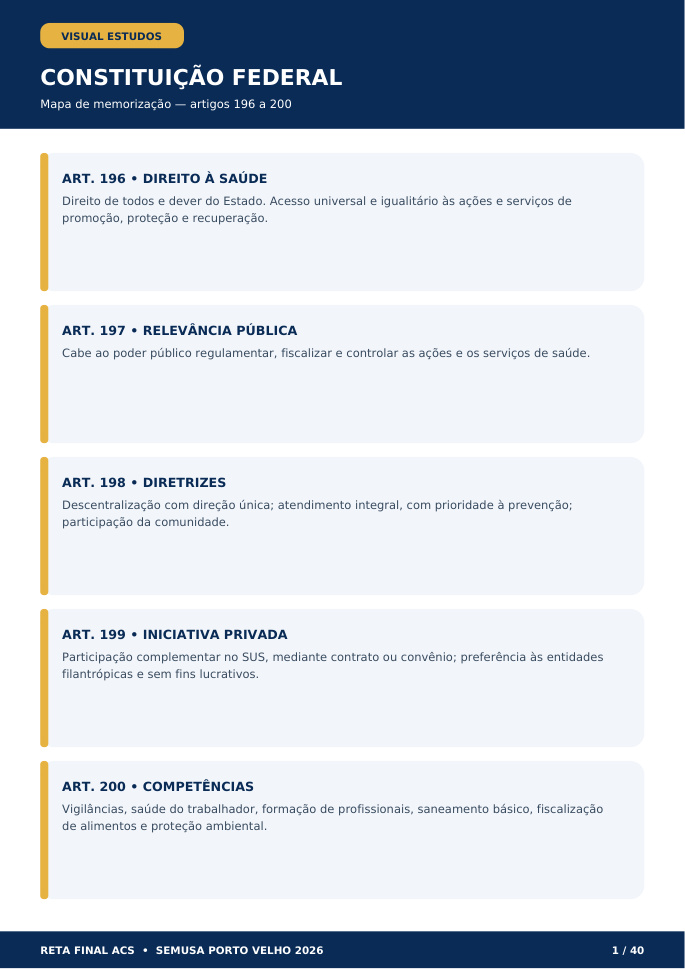
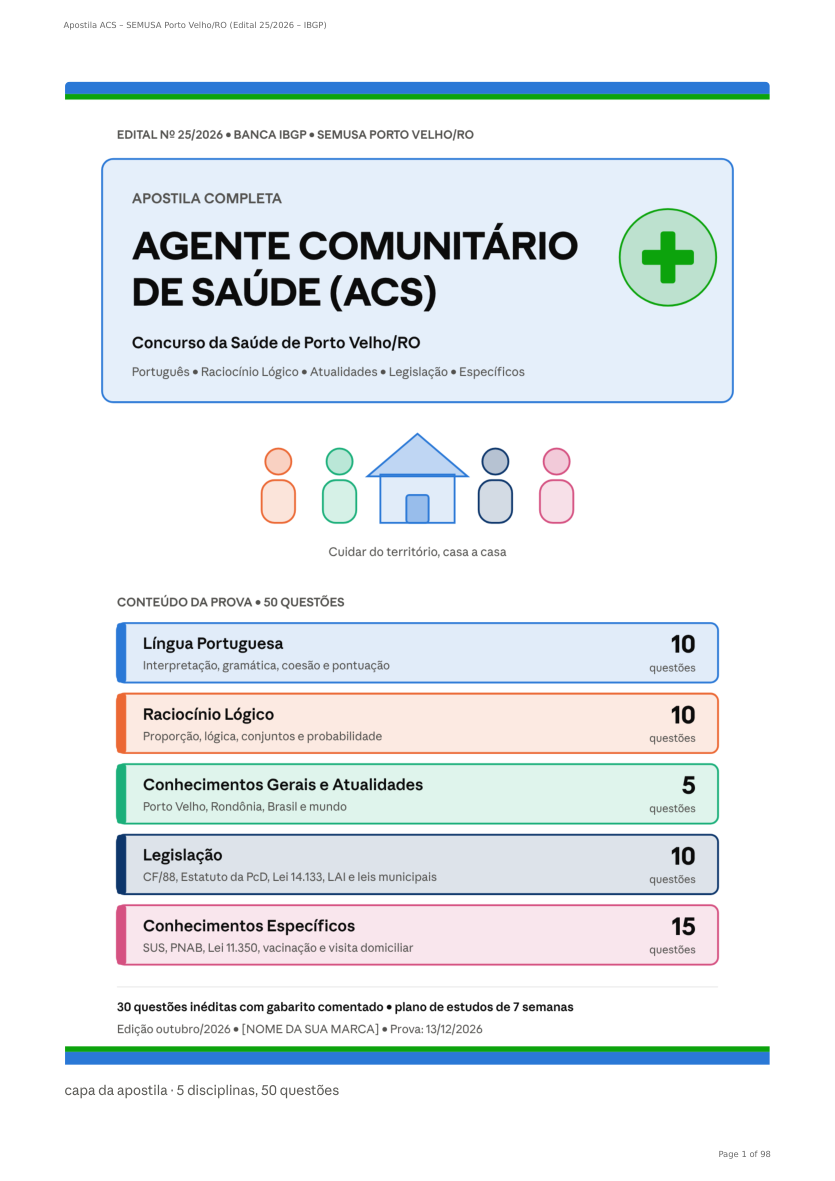
Add files via upload
Atualização das 7 prévias dos produtos.

diff --git a/previa.html b/previa.html
@@ -1,15 +1,15 @@
 <!doctype html><html lang="pt-BR"><head><meta charset="utf-8"><meta name="viewport" content="width=device-width,initial-scale=1"><meta name="theme-color" content="#0b2343"><title>Prévia interativa | Visual Estudos</title><style>
 :root{--navy:#0b2343;--gold:#e8bd61;--ink:#1a2a40}*{box-sizing:border-box}body{margin:0;font:16px/1.55 system-ui,Arial;background:#f5f5f1;color:var(--ink)}a{text-decoration:none}header{background:var(--navy);color:#fff;padding:16px max(20px,calc((100vw - 1100px)/2))}header a{color:#fff;font-weight:800;letter-spacing:.07em}header span{color:var(--gold)}main{max-width:1100px;margin:0 auto;padding:24px 18px 70px}.back{color:#254b78;font-weight:700}.heading{margin:22px 0 25px}.eyebrow{color:#946c1c;text-transform:uppercase;letter-spacing:.15em;font-weight:800;font-size:12px}h1{font-size:clamp(28px,4vw,45px);line-height:1.15;margin:8px 0}h2{font-size:22px;margin:0 0 10px}.layout{display:grid;grid-template-columns:minmax(0,1.2fr) minmax(300px,.8fr);gap:22px}.panel{background:white;border:1px solid #e5e7eb;border-radius:18px;padding:22px;box-shadow:0 8px 28px #0b234309}.viewer{background:#e9edf1;border-radius:12px;min-height:390px;display:grid;place-items:center;padding:14px}.viewer img{display:block;max-width:100%;max-height:640px;object-fit:contain;box-shadow:0 5px 25px #0002}.viewer .empty{text-align:center;max-width:360px;padding:50px 12px}.controls{display:flex;align-items:center;justify-content:space-between;gap:12px;margin-top:15px}.btn{border:0;border-radius:10px;padding:12px 18px;background:var(--navy);color:white;font-weight:800;cursor:pointer;display:inline-block;text-align:center}.btn:disabled{opacity:.35;cursor:not-allowed}.buy{background:#d6a641;color:#15243b;width:100%;margin:15px 0 8px}.muted{color:#637080;font-size:14px}.dots{display:flex;gap:7px}.dot{width:9px;height:9px;border-radius:50%;background:#c6cbd2}.dot.active{background:#a67920}.option{display:block;width:100%;padding:12px;margin:8px 0;text-align:left;background:#f7f9fc;border:1px solid #d8dfe7;border-radius:9px;cursor:pointer;font:inherit}.option.selected{border:2px solid #1d507c;background:#e9f2fa}.feedback{font-weight:700;margin-top:12px}.fine{font-size:12px;color:#66727e}ul{padding-left:20px}@media(max-width:790px){.layout{grid-template-columns:1fr}.panel{padding:16px}.viewer{min-height:250px}}
 </style></head><body><header><a href="index.html">VISUAL <span>ESTUDOS</span></a></header><main><a class="back" href="index.html#materiais">← Voltar aos materiais</a><div class="heading"><div class="eyebrow">Conheça antes de comprar</div><h1 id="title">Prévia do produto</h1><p class="muted">Navegue por páginas demonstrativas e experimente uma questão de revisão.</p></div><div class="layout"><section class="panel"><h2>Por dentro do material</h2><div class="viewer" id="viewer"></div><div class="controls"><button class="btn" id="prev">← Anterior</button><div id="counter" class="muted"></div><button class="btn" id="next">Próxima →</button></div><p class="fine" id="sample-note"></p></section><aside><section class="panel"><h2>Experimente a revisão</h2><p id="question"></p><div id="options"></div><div id="feedback" class="feedback" aria-live="polite"></div><button id="reset" class="btn" style="margin-top:12px">Tentar novamente</button><p class="fine">Questão demonstrativa, não retirada de prova oficial da IBGP.</p></section><section class="panel" style="margin-top:20px"><h2>Gostou do material?</h2><p>Confira as condições, o valor e a descrição completa na Hotmart antes de finalizar.</p><a class="btn buy" id="checkout" target="_blank" rel="noopener noreferrer sponsored">Ver preço e comprar ↗</a><p class="fine">Compra e entrega digital pela Hotmart. Material independente; consulte o edital e as fontes oficiais.</p></section></aside></div></main><script>
-const products={"apostila-acs": {"title": "Apostila ACS", "url": "https://pay.hotmart.com/A108177654K", "images": ["amostras/apostila-acs-1.png", "amostras/apostila-acs-2.png", "amostras/apostila-acs-3.png"], "category": "acs"}, "mapas-acs": {"title": "Mapas Mentais ACS — Conhecimentos Específicos", "url": "https://pay.hotmart.com/S108605680P", "images": ["amostras/mapas-acs-1.png", "amostras/mapas-acs-2.png", "amostras/mapas-acs-3.png"], "category": "acs"}, "mapas-ace": {"title": "Mapas Mentais ACE — Revisão Estratégica IBGP", "url": "https://pay.hotmart.com/I108605538J", "images": ["amostras/mapas-ace-1.png", "amostras/mapas-ace-2.png", "amostras/mapas-ace-3.png"], "category": "ace"}, "legislacao": {"title": "Legislação de Porto Velho — Revisão Estratégica IBGP", "url": "https://pay.hotmart.com/H108605457F", "images": ["amostras/legislacao-1.png", "amostras/legislacao-2.png", "amostras/legislacao-3.png"], "category": "sus"}, "fisio": {"title": "Fisio Para Não Esquecer", "url": "https://pay.hotmart.com/O108196956E", "images": [], "category": "fisioterapia"}, "flashcards": {"title": "Flash Card Fisio", "url": "https://pay.hotmart.com/W108133411G", "images": [], "category": "fisioterapia"}, "sus": {"title": "SUS na Mente", "url": "https://pay.hotmart.com/Q108132771D", "images": [], "category": "sus"}};
+const products={"apostila-acs": {"title": "Apostila ACS", "url": "https://pay.hotmart.com/A108177654K", "images": ["amostras/apostila-acs-1.png", "amostras/apostila-acs-2.png", "amostras/apostila-acs-3.png"], "category": "acs"}, "mapas-acs": {"title": "Mapas Mentais ACS — Conhecimentos Específicos", "url": "https://pay.hotmart.com/S108605680P", "images": ["amostras/mapas-acs-1.png", "amostras/mapas-acs-2.png", "amostras/mapas-acs-3.png"], "category": "acs"}, "mapas-ace": {"title": "Mapas Mentais ACE — Revisão Estratégica IBGP", "url": "https://pay.hotmart.com/I108605538J", "images": ["amostras/mapas-ace-1.png", "amostras/mapas-ace-2.png", "amostras/mapas-ace-3.png"], "category": "ace"}, "legislacao": {"title": "Legislação de Porto Velho — Revisão Estratégica IBGP", "url": "https://pay.hotmart.com/H108605457F", "images": ["amostras/legislacao-1.png", "amostras/legislacao-2.png", "amostras/legislacao-3.png"], "category": "sus"}, "fisio": {"title": "Fisio Para Não Esquecer", "url": "https://pay.hotmart.com/O108196956E", "images": ["amostras/fisio-1.png", "amostras/fisio-2.png", "amostras/fisio-3.png"], "category": "fisioterapia"}, "flashcards": {"title": "Flash Card Fisio", "url": "https://pay.hotmart.com/W108133411G", "images": ["amostras/flashcards-1.png", "amostras/flashcards-2.png", "amostras/flashcards-3.png"], "category": "fisioterapia"}, "sus": {"title": "SUS na Mente", "url": "https://pay.hotmart.com/Q108132771D", "images": ["amostras/sus-1.png", "amostras/sus-2.png", "amostras/sus-3.png"], "category": "sus"}};
 const quiz=[
  {q:"Segundo a Constituição Federal de 1988, a saúde é:",opts:["Um benefício exclusivo de quem contribui para a Previdência.","Um direito de todos e dever do Estado.","Uma responsabilidade apenas dos municípios.","Um serviço restrito à assistência hospitalar."],correct:1,why:"O artigo 196 da Constituição estabelece que a saúde é direito de todos e dever do Estado."},
  {q:"O princípio da integralidade no SUS significa:",opts:["Priorizar somente ações curativas.","Oferecer apenas atendimento especializado.","Articular ações de promoção, prevenção, tratamento e reabilitação conforme as necessidades.","Garantir acesso somente mediante encaminhamento médico."],correct:2,why:"Integralidade abrange diferentes ações de cuidado de forma articulada."}
 ];
 const key=new URLSearchParams(location.search).get("produto");const p=products[key];if(!p){location.replace("index.html#materiais")}else{
- document.title=p.title+" | Prévia Visual Estudos";document.getElementById("title").textContent=p.title;document.getElementById("checkout").href=p.url;
+ document.title=p.title+" | Prévia Visual Estudos";if(key==="flashcards"||key==="fisio"){document.documentElement.style.setProperty("--navy","#46235c");document.documentElement.style.setProperty("--gold","#c79adb");document.body.style.background="#f8f3fb";}document.getElementById("title").textContent=p.title;document.getElementById("checkout").href=p.url;
  let index=0;const viewer=document.getElementById("viewer"),counter=document.getElementById("counter"),prev=document.getElementById("prev"),next=document.getElementById("next");
- function draw(){if(p.images.length){viewer.innerHTML="";const img=document.createElement("img");img.src=p.images[index];img.alt="Página demonstrativa "+(index+1)+" do material";viewer.append(img);counter.textContent=(index+1)+" de "+p.images.length;document.getElementById("sample-note").textContent="Amostra de páginas selecionadas do PDF; não representa o material completo."}else{viewer.innerHTML='<div class="empty"><h2>Prévia descritiva</h2><p>Este produto está no catálogo, mas ainda não recebemos páginas autorizadas para exibir como amostra.</p><p>Você pode experimentar a questão ao lado e conferir a descrição completa na Hotmart.</p></div>';counter.textContent="Sem imagens de amostra";document.getElementById("sample-note").textContent="Não exibimos páginas inventadas ou atribuídas indevidamente ao produto."}prev.disabled=index===0||!p.images.length;next.disabled=index>=p.images.length-1||!p.images.length}
+ function draw(){if(p.images.length){viewer.innerHTML="";const img=document.createElement("img");img.src=p.images[index];img.alt="Página demonstrativa "+(index+1)+" do material";viewer.append(img);counter.textContent=(index+1)+" de "+p.images.length;document.getElementById("sample-note").textContent="Páginas reais do material, sem barras de navegador ou controles de PDF. Amostra parcial."}else{viewer.innerHTML='<div class="empty"><h2>Prévia descritiva</h2><p>Este produto está no catálogo, mas ainda não recebemos páginas autorizadas para exibir como amostra.</p><p>Você pode experimentar a questão ao lado e conferir a descrição completa na Hotmart.</p></div>';counter.textContent="Sem imagens de amostra";document.getElementById("sample-note").textContent="Não exibimos páginas inventadas ou atribuídas indevidamente ao produto."}prev.disabled=index===0||!p.images.length;next.disabled=index>=p.images.length-1||!p.images.length}
  prev.onclick=()=>{index--;draw()};next.onclick=()=>{index++;draw()};draw();
  const q=quiz[(key==="mapas-acs"||key==="apostila-acs")?0:1];document.getElementById("question").textContent=q.q;
  const options=document.getElementById("options"),feedback=document.getElementById("feedback");function render(){options.innerHTML="";feedback.textContent="";q.opts.forEach((t,i)=>{const b=document.createElement("button");b.className="option";b.textContent=String.fromCharCode(65+i)+") "+t;b.onclick=()=>{Array.from(options.children).forEach(x=>x.disabled=true);b.classList.add("selected");feedback.textContent=(i===q.correct?"✓ Resposta correta. ":"Resposta incorreta. Alternativa correta: "+String.fromCharCode(65+q.correct)+". ")+q.why};options.append(b)})}document.getElementById("reset").onclick=render;render();

diff --git a/index.html b/index.html
@@ -4,7 +4,7 @@
 <article class="product" data-category="acs"><div class="cover"><span class="tag">ACS</span><strong>Apostila ACS</strong><small>Preparação para concursos</small></div><div class="body"><h3>Apostila ACS</h3><p>Material de estudos para Agente Comunitário de Saúde, com conteúdo organizado para acompanhar sua preparação.</p><a class="btn" target="_blank" rel="noopener noreferrer sponsored" href="https://pay.hotmart.com/A108177654K">Ver na Hotmart ↗</a><a class="preview-link" href="previa.html?produto=apostila-acs">👁 Explorar prévia interativa</a><div class="smallprint">Confira preço e detalhes no checkout</div></div></article>
 <article class="product" data-category="acs"><div class="cover"><span class="tag">ACS • ESPECÍFICOS</span><strong>Mapas Mentais ACS</strong><small>Com bônus de revisão</small></div><div class="body"><h3>Mapas Mentais ACS — Conhecimentos Específicos</h3><p>Revisão visual exclusiva dos conhecimentos específicos de ACS. Inclui bônus de revisão com simulado de 6 questões comentadas.</p><a class="btn" target="_blank" rel="noopener noreferrer sponsored" href="https://pay.hotmart.com/S108605680P">Ver na Hotmart ↗</a><a class="preview-link" href="previa.html?produto=mapas-acs">👁 Explorar prévia interativa</a><div class="smallprint">Confira preço e detalhes no checkout</div></div></article>
 <article class="product" data-category="ace"><div class="cover"><span class="tag">ACE</span><strong>Mapas Mentais ACE</strong><small>16 mapas • 18 páginas</small></div><div class="body"><h3>Mapas Mentais ACE — Revisão Estratégica IBGP</h3><p>Revisão visual de SUS, legislação do ACE, vigilância em saúde, endemias e outros assuntos presentes no material.</p><a class="btn" target="_blank" rel="noopener noreferrer sponsored" href="https://pay.hotmart.com/I108605538J">Ver na Hotmart ↗</a><a class="preview-link" href="previa.html?produto=mapas-ace">👁 Explorar prévia interativa</a><div class="smallprint">Confira preço e detalhes no checkout</div></div></article>
-<article class="product" data-category="sus"><div class="cover"><span class="tag">LEGISLAÇÃO</span><strong>Legislação de Porto Velho</strong><small>7 temas • 8 mapas • 21 questões</small></div><div class="body"><h3>Legislação de Porto Velho — Revisão Estratégica IBGP</h3><p>Revisão temática com mapas esquemáticos e 21 questões comentadas. Indicada para todos os cargos de nível médio, técnico e superior; não destinada aos cargos de nível fundamental. Confira o edital do seu cargo.</p><a class="btn" target="_blank" rel="noopener noreferrer sponsored" href="https://pay.hotmart.com/H108605457F">Ver na Hotmart ↗</a><a class="preview-link" href="previa.html?produto=legislacao">👁 Explorar prévia interativa</a><div class="smallprint">Confira preço e detalhes no checkout</div></div></article>
+<article class="product" data-category="sus"><div class="cover"><span class="tag">LEGISLAÇÃO</span><strong>Legislação de Porto Velho</strong><small>7 temas • 8 mapas • 21 questões</small></div><div class="body"><h3>Legislação de Porto Velho — Revisão Estratégica IBGP</h3><p>Revisão temática com mapas esquemáticos e 21 questões comentadas para reforçar o estudo de legislação.</p><a class="btn" target="_blank" rel="noopener noreferrer sponsored" href="https://pay.hotmart.com/H108605457F">Ver na Hotmart ↗</a><a class="preview-link" href="previa.html?produto=legislacao">👁 Explorar prévia interativa</a><div class="smallprint">Confira preço e detalhes no checkout</div></div></article>
 <article class="product" data-category="fisioterapia"><div class="cover"><span class="tag">FISIOTERAPIA</span><strong>Fisio Para Não Esquecer</strong><small>Material digital de estudo</small></div><div class="body"><h3>Fisio Para Não Esquecer</h3><p>Material de apoio para revisão e fixação de conhecimentos em Fisioterapia.</p><a class="btn" target="_blank" rel="noopener noreferrer sponsored" href="https://pay.hotmart.com/O108196956E">Ver na Hotmart ↗</a><a class="preview-link" href="previa.html?produto=fisio">👁 Explorar prévia interativa</a><div class="smallprint">Confira preço e detalhes no checkout</div></div></article>
 <article class="product" data-category="fisioterapia"><div class="cover"><span class="tag">FISIOTERAPIA</span><strong>Flash Card Fisio</strong><small>Revisão prática</small></div><div class="body"><h3>Flash Card Fisio</h3><p>Flashcards para apoiar a revisão de conteúdos de Fisioterapia em sessões curtas de estudo.</p><a class="btn" target="_blank" rel="noopener noreferrer sponsored" href="https://pay.hotmart.com/W108133411G">Ver na Hotmart ↗</a><a class="preview-link" href="previa.html?produto=flashcards">👁 Explorar prévia interativa</a><div class="smallprint">Confira preço e detalhes no checkout</div></div></article>
 <article class="product" data-category="sus"><div class="cover"><span class="tag">SUS</span><strong>SUS na Mente</strong><small>Material digital de estudo</small></div><div class="body"><h3>SUS na Mente</h3><p>Material de apoio para estudar e revisar temas relacionados ao Sistema Único de Saúde.</p><a class="btn" target="_blank" rel="noopener noreferrer sponsored" href="https://pay.hotmart.com/Q108132771D">Ver na Hotmart ↗</a><a class="preview-link" href="previa.html?produto=sus">👁 Explorar prévia interativa</a><div class="smallprint">Confira preço e detalhes no checkout</div></div></article>

diff --git a/README.md b/README.md
@@ -1,1 +1,1 @@
-Visual Estudos — site estático para Vercel. Abra index.html. Cada produto possui uma prévia interativa em previa.html?produto=..., com navegação por imagens demonstrativas quando disponíveis e uma questão de revisão. As questões são extraídas/adaptadas do bônus ACS; para outros produtos são apenas demonstração geral de SUS, não do produto específico. Não exibir como simulado IBGP. Publicar pasta como projeto estático na Vercel.
+Site Visual Estudos. Prévia com imagens de páginas extraídas diretamente dos PDFs, sem interface do navegador. A amostra de Flash Cards Fisio vem do arquivo FisioUp_300_flashcards_imprimir(1).pdf. A amostra de SUS na Mente e Fisio Para Não Esquecer ainda depende dos PDFs originais. Para publicar, envie os arquivos e a pasta amostras ao repositório GitHub na raiz.
